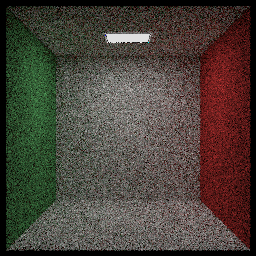
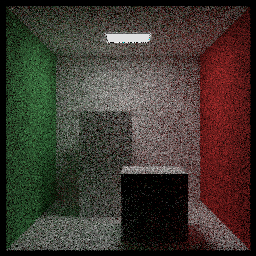
w02 update cornell box

diff --git a/src/w02/hittable.h b/src/w02/hittable.h
@@ -287,4 +287,28 @@ private:
     }
 };
 
+inline std::shared_ptr<hittable_list> box(const HMM_Vec3& a, const HMM_Vec3& b, std::shared_ptr<material> mat)
+{
+    // Returns the 3D box (six sides) that contains the two opposite vertices a & b.
+
+    auto sides = std::make_shared<hittable_list>();
+
+    // Construct the two opposite vertices with the minimum and maximum coordinates.
+    auto min = HMM_V3(std::fminf(a.X, b.X), std::fminf(a.Y, b.Y), std::fminf(a.Z, b.Z));
+    auto max = HMM_V3(std::fmaxf(a.X, b.X), std::fmaxf(a.Y, b.Y), std::fmaxf(a.Z, b.Z));
+
+    auto dx = HMM_V3(max.X - min.X, 0, 0);
+    auto dy = HMM_V3(0, max.Y - min.Y, 0);
+    auto dz = HMM_V3(0, 0, max.Z - min.Z);
+
+    sides->add(make_shared<quad>(HMM_V3(min.X, min.Y, max.Z),  dx,  dy, mat)); // front
+    sides->add(make_shared<quad>(HMM_V3(max.X, min.Y, max.Z), -dz,  dy, mat)); // right
+    sides->add(make_shared<quad>(HMM_V3(max.X, min.Y, min.Z), -dx,  dy, mat)); // back
+    sides->add(make_shared<quad>(HMM_V3(min.X, min.Y, min.Z),  dz,  dy, mat)); // left
+    sides->add(make_shared<quad>(HMM_V3(min.X, max.Y, max.Z),  dx, -dz, mat)); // top
+    sides->add(make_shared<quad>(HMM_V3(min.X, min.Y, min.Z),  dx,  dz, mat)); // bottom
+
+    return sides;
+}
+
 #endif //SIMPLERT_HITTABLE_H

diff --git a/src/w02/main.cpp b/src/w02/main.cpp
@@ -248,6 +248,9 @@ void cornell_box() {
     world.add(make_shared<quad>(HMM_V3(555,555,555), HMM_V3(-555,0,0), HMM_V3(0,0,-555), white));
     world.add(make_shared<quad>(HMM_V3(0,0,555), HMM_V3(555,0,0), HMM_V3(0,555,0), white));
 
+    world.add(box(HMM_V3(130, 0, 65), HMM_V3(295, 165, 230), white));
+    world.add(box(HMM_V3(265, 0, 295), HMM_V3(430, 330, 460), white));
+
     camera cam;
 
     cam.image_width       = 256;
